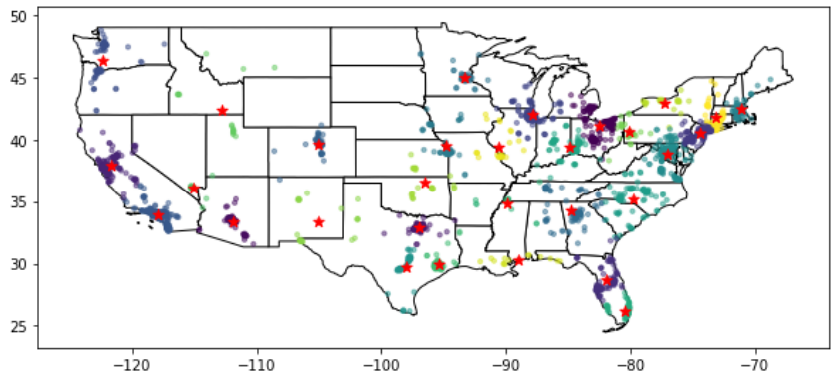
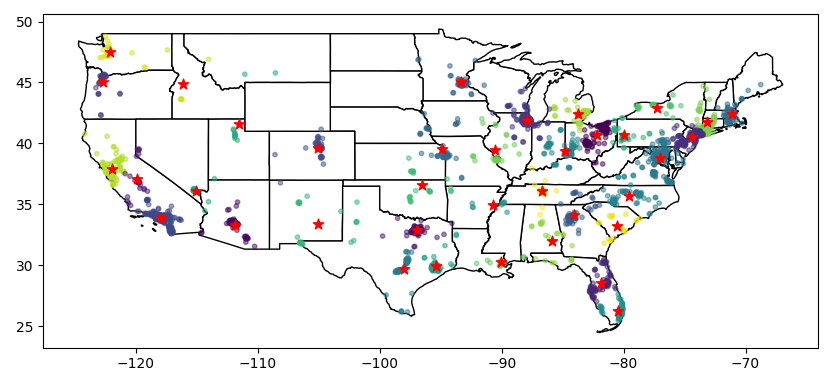
Readme files

Changed region(s): [[0.0, 0.0, 0.9952, 0.9842]]

diff --git a/scripts/map_geopandas.py b/scripts/map_geopandas.py
@@ -11,12 +11,12 @@ from sklearn.cluster import DBSCAN
 from sklearn.cluster import AgglomerativeClustering
 from sklearn.metrics import silhouette_score
 
-states = geopandas.read_file("Data/cb_2018_us_state_20m/cb_2018_us_state_20m.shp")
+states = geopandas.read_file("data/cb_2018_us_state_20m/cb_2018_us_state_20m.shp")
 states = states[states["NAME"] != "Alaska"]
 states = states[states["NAME"] != "Hawaii"]
 states = states[states["NAME"] != "Puerto Rico"]
 
-chipotle = pd.read_csv("Data/chipotle_stores.csv")
+chipotle = pd.read_csv("data/chipotle_stores.csv")
 chipotle.head(10)
 
 
@@ -129,11 +129,11 @@ def k_means_cluster_silhouette(kmax: int, X: pd.DataFrame) -> None:
     plt.ylabel("Silhouette score")
     plt.show()
 
-#k_means_cluster(30, X)
+k_means_cluster(37, X)
 
 #DBSCAN_cluster(1.5,X)
 
-k_means_cluster_silhouette(60,X)
+# k_means_cluster_silhouette(60,X)
 
 
 #Agglomerative_cluster(35, X)
